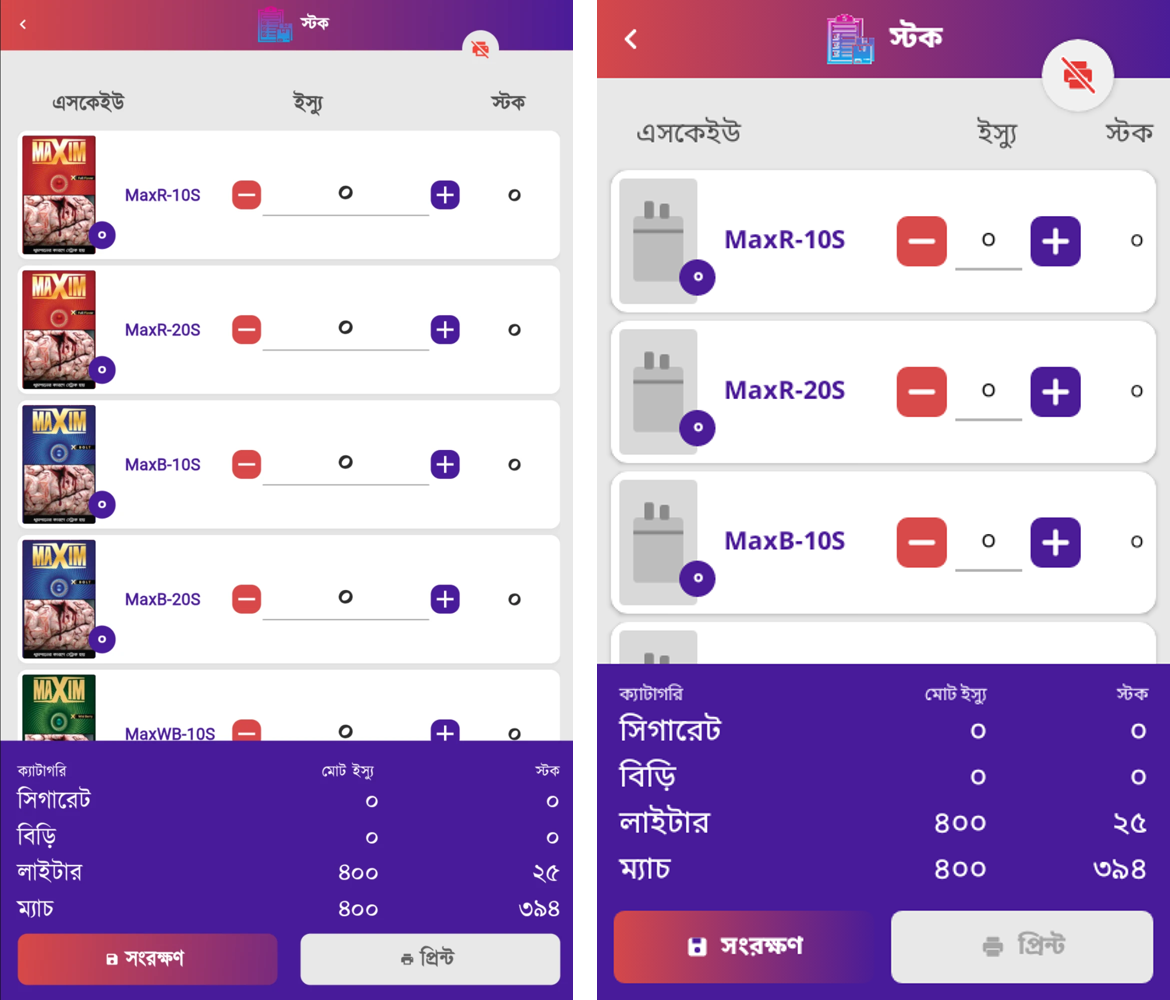
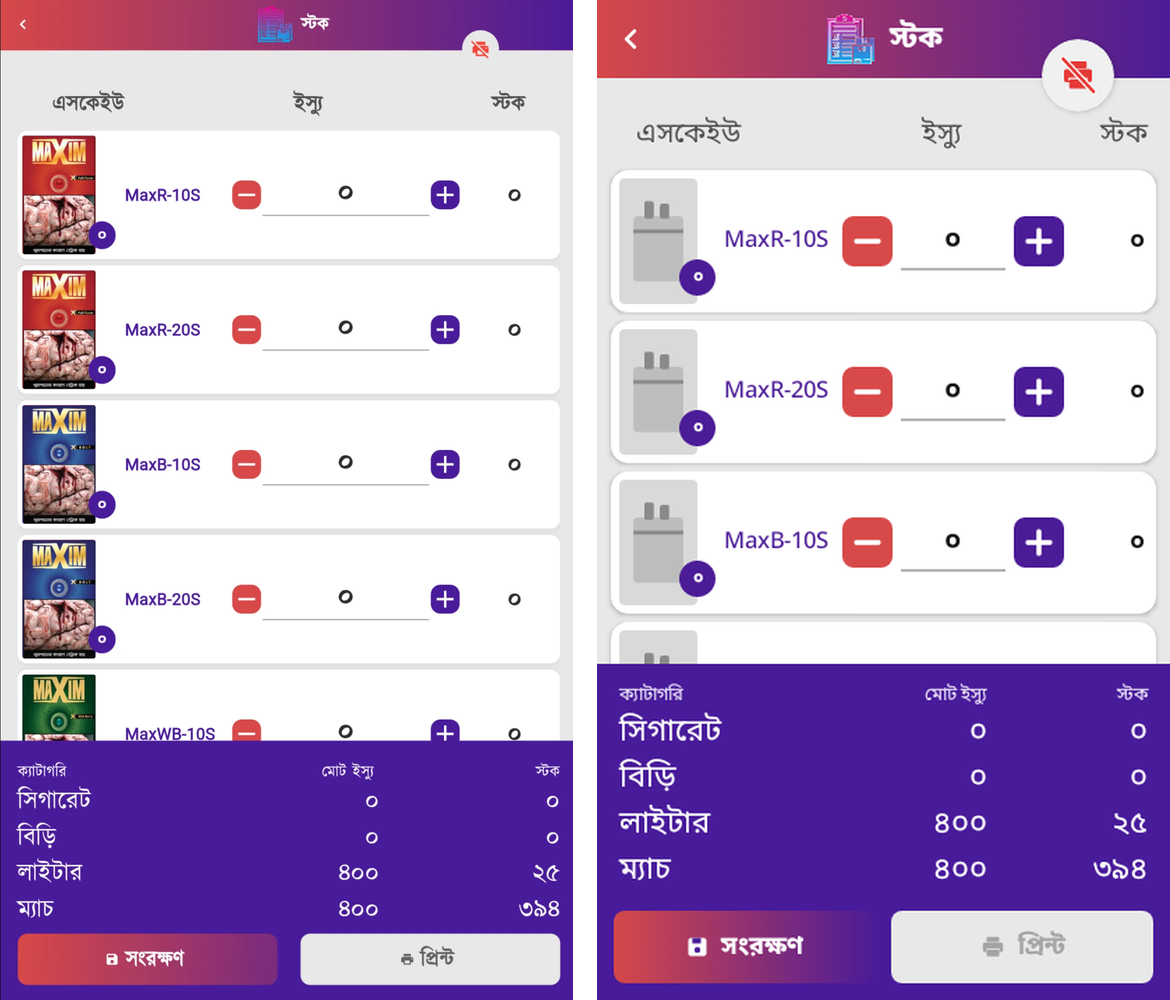
ui-kit: PackCard weights and quantity field as on sr/stock.webp; AMO Home goldens re-recorded for the kit header
Fidelity (measured on stock.webp): the SKU code is Medium (was Bold), the quantity and stock figures are bold,
and the underlined quantity field grows with the row (48 dp at 360 dp, unchanged; up to 96 dp at 411 dp) so it
fills minus-to-plus as on the reference. PackListHeader follows the same width. Names and signatures unchanged.

Run 1216 was red on amo_home_bn_{light,sunlight,fs2}: recorded by ui-amo before the kit Home header went to
15/11 sp (measured on home-1-tiles.webp). Re-recorded with the current kit.

tools/ui-kit/parity_evidence.py rebuilds the side-by-side evidence images.

Claude-Session: https://claude.ai/code/session_012DWzsWtYJkEcYzFUUfg1sn

diff --git a/android/core-ui/src/main/kotlin/com/aktcl/aron/core/ui/aron/Packs.kt b/android/core-ui/src/main/kotlin/com/aktcl/aron/core/ui/aron/Packs.kt
@@ -4,6 +4,7 @@ import androidx.compose.foundation.Canvas
 import androidx.compose.foundation.Image
 import androidx.compose.foundation.background
 import androidx.compose.foundation.layout.Box
+import androidx.compose.foundation.layout.BoxWithConstraints
 import androidx.compose.foundation.layout.Row
 import androidx.compose.foundation.layout.Spacer
 import androidx.compose.foundation.layout.fillMaxWidth
@@ -37,6 +38,7 @@ import androidx.compose.ui.semantics.contentDescription
 import androidx.compose.ui.semantics.semantics
 import androidx.compose.ui.text.input.KeyboardType
 import androidx.compose.ui.text.style.TextAlign
+import androidx.compose.ui.unit.Dp
 import androidx.compose.ui.unit.dp
 import androidx.compose.ui.unit.sp
 import com.aktcl.aron.core.ui.AronLook
@@ -115,7 +117,13 @@ private fun DrawScope.silhouette(category: PackCategory, ink: Color) {
 /** 52 dp: a 5-digit stick count with its separator (`১২,০০০`) and the `স্টক` header fit on one line, shrinking to 12 sp at most. */
 private val StockColumn = 52.dp
 private val QtyField = 48.dp
-private val QtyColumn = AronLook.Touch * 2 + QtyField
+
+/**
+ * The quantity field grows with the row (sr/stock.webp: the underline fills the space between minus and plus): 48 dp at 360 dp, up to
+ * 96 dp on wider phones, leaving an 18 sp SKU code (about 80 dp) its room. [rowWidth] is the full width of the header or the card;
+ * both compute the same, so the header stays over its column.
+ */
+private fun qtyFieldFor(rowWidth: Dp): Dp = (rowWidth - 316.dp).coerceIn(QtyField, 96.dp)
 
 /**
  * The column headers above a pack list (sr/stock.webp: `এসকেইউ` / `ইস্যু` / `স্টক`, grey 20 sp). [quantity] is the issue column on
@@ -124,16 +132,19 @@ private val QtyColumn = AronLook.Touch * 2 + QtyField
 @Composable
 fun PackListHeader(sku: String, quantity: String, stock: String, modifier: Modifier = Modifier) {
     val look = LocalAronLook.current
-    Row(modifier.fillMaxWidth().padding(start = 12.dp, end = 16.dp, top = 12.dp, bottom = 12.dp), verticalAlignment = Alignment.CenterVertically) {
-        FitText(sku, lookStyle(20.sp, color = look.columnHeader), 12.sp, Modifier.weight(1f).padding(start = 16.dp), oneLineDown = 12.sp)
-        FitText(quantity, lookStyle(20.sp, color = look.columnHeader, align = TextAlign.Center), 12.sp, Modifier.width(QtyColumn), oneLineDown = 12.sp)
-        FitText(stock, lookStyle(20.sp, color = look.columnHeader, align = TextAlign.End), 12.sp, Modifier.width(StockColumn), oneLineDown = 12.sp)
+    BoxWithConstraints(modifier.fillMaxWidth()) {
+        val qtyColumn = AronLook.Touch * 2 + qtyFieldFor(maxWidth)
+        Row(Modifier.fillMaxWidth().padding(start = 12.dp, end = 16.dp, top = 12.dp, bottom = 12.dp), verticalAlignment = Alignment.CenterVertically) {
+            FitText(sku, lookStyle(20.sp, color = look.columnHeader), 12.sp, Modifier.weight(1f).padding(start = 16.dp), oneLineDown = 12.sp)
+            FitText(quantity, lookStyle(20.sp, color = look.columnHeader, align = TextAlign.Center), 12.sp, Modifier.width(qtyColumn), oneLineDown = 12.sp)
+            FitText(stock, lookStyle(20.sp, color = look.columnHeader, align = TextAlign.End), 12.sp, Modifier.width(StockColumn), oneLineDown = 12.sp)
+        }
     }
 }
 
 /**
  * One pack row of Stock, Sale and the review (PARITY-SPEC s2.5, sr/stock.webp): a white 12 dp card with the [PackshotImage] at the
- * start and the purple round [packBadge] overlapping its bottom end, the [skuCode] in purple 18 sp bold, the red [AronMinus], the
+ * start and the purple round [packBadge] overlapping its bottom end, the [skuCode] in purple 18 sp medium (the reference weight), the red [AronMinus], the
  * underlined [quantity] field (tap to type; [onQuantityChange] gets digits only, Bangla digits included, at most 6), the purple
  * [AronPlus], and the [stock] figure at the end. Strings come resolved and localised (digits too) from the caller.
  */
@@ -159,57 +170,60 @@ fun PackCard(
 ) {
     val look = LocalAronLook.current
     val shape = RoundedCornerShape(AronLook.CardRadius)
-    Row(
-        modifier
-            .fillMaxWidth()
-            .shadow(2.dp, shape)
-            .clip(shape)
-            .background(look.card)
-            .padding(start = 6.dp, top = 6.dp, bottom = 6.dp, end = 8.dp),
-        verticalAlignment = Alignment.CenterVertically,
-    ) {
-        Box(Modifier.padding(end = AronLook.PackBadge / 2)) {
-            PackshotImage(skuId, Modifier.size(AronLook.PackshotWidth, AronLook.PackshotHeight), packshotDescription, category)
-            if (packBadge != null) {
-                Box(
-                    Modifier
-                        .align(Alignment.BottomEnd)
-                        .offset(x = AronLook.PackBadge / 2, y = (-6).dp)
-                        .sizeIn(minWidth = AronLook.PackBadge, minHeight = AronLook.PackBadge)
-                        .clip(CircleShape)
-                        .background(look.purple),
-                    contentAlignment = Alignment.Center,
-                ) { Text(packBadge, style = lookStyle(12.sp, bold = true, color = Color.White), modifier = Modifier.padding(horizontal = 4.dp)) }
+    BoxWithConstraints(modifier.fillMaxWidth()) {
+        val qtyField = qtyFieldFor(maxWidth)
+        Row(
+            Modifier
+                .fillMaxWidth()
+                .shadow(2.dp, shape)
+                .clip(shape)
+                .background(look.card)
+                .padding(start = 6.dp, top = 6.dp, bottom = 6.dp, end = 8.dp),
+            verticalAlignment = Alignment.CenterVertically,
+        ) {
+            Box(Modifier.padding(end = AronLook.PackBadge / 2)) {
+                PackshotImage(skuId, Modifier.size(AronLook.PackshotWidth, AronLook.PackshotHeight), packshotDescription, category)
+                if (packBadge != null) {
+                    Box(
+                        Modifier
+                            .align(Alignment.BottomEnd)
+                            .offset(x = AronLook.PackBadge / 2, y = (-6).dp)
+                            .sizeIn(minWidth = AronLook.PackBadge, minHeight = AronLook.PackBadge)
+                            .clip(CircleShape)
+                            .background(look.purple),
+                        contentAlignment = Alignment.Center,
+                    ) { Text(packBadge, style = lookStyle(12.sp, bold = true, color = Color.White), modifier = Modifier.padding(horizontal = 4.dp)) }
+                }
             }
+            Spacer(Modifier.width(6.dp))
+            // one line, shrinking from 18 sp down to 14 sp (sr/stock.webp shows the code on one line); a longer name such as "Prime Gold
+            // 10S" then wraps between words, each word shrinking to at most 12 sp: no code is ever cut
+            FitText(skuCode, lookStyle(18.sp, medium = true, color = look.purple), 12.sp, Modifier.weight(1f), oneLineDown = 14.sp)
+            AronMinus(onMinus, minusLabel, enabled = minusEnabled)
+            BasicTextField(
+                value = quantity,
+                onValueChange = { typed -> onQuantityChange(typed.filter(Char::isDigit).take(6)) },
+                enabled = editable,
+                singleLine = true,
+                textStyle = lookStyle(20.sp, bold = true, color = look.ink, align = TextAlign.Center),
+                cursorBrush = SolidColor(look.purple),
+                keyboardOptions = KeyboardOptions(keyboardType = KeyboardType.Number),
+                modifier = Modifier
+                    .width(qtyField)
+                    .heightIn(min = AronLook.Touch)
+                    .semantics { contentDescription = quantityLabel },
+                decorationBox = { inner ->
+                    Box(
+                        Modifier.fillMaxWidth().heightIn(min = AronLook.Touch).drawBehind {
+                            val y = size.height - 4.dp.toPx()
+                            drawLine(look.underline, Offset(0f, y), Offset(size.width, y), 1.5.dp.toPx())
+                        },
+                        contentAlignment = Alignment.Center,
+                    ) { inner() }
+                },
+            )
+            AronPlus(onPlus, plusLabel, enabled = plusEnabled)
+            FitText(stock, lookStyle(18.sp, bold = true, color = look.ink, align = TextAlign.End), 12.sp, Modifier.width(StockColumn), oneLineDown = 12.sp)
         }
-        Spacer(Modifier.width(6.dp))
-        // one line, shrinking from 18 sp down to 14 sp (sr/stock.webp shows the code on one line); a longer name such as "Prime Gold
-        // 10S" then wraps between words, each word shrinking to at most 12 sp: no code is ever cut
-        FitText(skuCode, lookStyle(18.sp, bold = true, color = look.purple), 12.sp, Modifier.weight(1f), oneLineDown = 14.sp)
-        AronMinus(onMinus, minusLabel, enabled = minusEnabled)
-        BasicTextField(
-            value = quantity,
-            onValueChange = { typed -> onQuantityChange(typed.filter(Char::isDigit).take(6)) },
-            enabled = editable,
-            singleLine = true,
-            textStyle = lookStyle(20.sp, color = look.ink, align = TextAlign.Center),
-            cursorBrush = SolidColor(look.purple),
-            keyboardOptions = KeyboardOptions(keyboardType = KeyboardType.Number),
-            modifier = Modifier
-                .width(QtyField)
-                .heightIn(min = AronLook.Touch)
-                .semantics { contentDescription = quantityLabel },
-            decorationBox = { inner ->
-                Box(
-                    Modifier.fillMaxWidth().heightIn(min = AronLook.Touch).drawBehind {
-                        val y = size.height - 4.dp.toPx()
-                        drawLine(look.underline, Offset(0f, y), Offset(size.width, y), 1.5.dp.toPx())
-                    },
-                    contentAlignment = Alignment.Center,
-                ) { inner() }
-            },
-        )
-        AronPlus(onPlus, plusLabel, enabled = plusEnabled)
-        FitText(stock, lookStyle(18.sp, color = look.ink, align = TextAlign.End), 12.sp, Modifier.width(StockColumn), oneLineDown = 12.sp)
     }
 }

diff --git a/tools/ui-kit/parity_evidence.py b/tools/ui-kit/parity_evidence.py
@@ -1,0 +1,40 @@
+#!/usr/bin/env python3
+"""Side-by-side parity evidence: the owner's screenshot (left) and the kit mock-up (right), both scaled to 1000 px high, 24 px white gap.
+
+Run after `./gradlew :android:ui-screenshots:testDebugUnitTest --tests '*KitParityShot*'`; writes docs/evidence/ui-parity/kit-<name>.png.
+"""
+import pathlib
+import sys
+
+from PIL import Image
+
+ROOT = pathlib.Path(__file__).resolve().parents[2]
+PAIRS = {
+    "home": "home-1-tiles.webp",
+    "stock": "stock.webp",
+    "sale-select": "sale-select.png",
+    "summary": "summary.png",
+    "sales-submit": "sales-submit.png",
+    "outlet-menu": "outlet-menu.png",
+}
+H, GAP = 1000, 24
+
+
+def scaled(path: pathlib.Path) -> Image.Image:
+    im = Image.open(path).convert("RGB")
+    return im.resize((round(im.width * H / im.height), H), Image.LANCZOS)
+
+
+def main(names: list[str]) -> None:
+    for name in names or PAIRS:
+        ref = scaled(ROOT / "docs/ui-reference/sr" / PAIRS[name])
+        kit = scaled(ROOT / "android/ui-screenshots/build/kitshots" / f"parity_{name.replace('-', '_')}.png")
+        out = Image.new("RGB", (ref.width + GAP + kit.width, H), "white")
+        out.paste(ref, (0, 0))
+        out.paste(kit, (ref.width + GAP, 0))
+        out.save(ROOT / "docs/evidence/ui-parity" / f"kit-{name}.png", optimize=True)
+        print(f"kit-{name}.png", out.size)
+
+
+if __name__ == "__main__":
+    main(sys.argv[1:])

diff --git a/docs/status/ui-parity-ui-kit.md b/docs/status/ui-parity-ui-kit.md
@@ -1,6 +1,13 @@
 # UI parity: lane ui-kit (android/core-ui)
 
-## HANDOVER (2026-10-18 23:20 UTC, READY TO RECYCLE)
+## SESSION 2 (2026-10-18 23:50 UTC, session_012DWzsWtYJkEcYzFUUfg1sn, Opus)
+- **Up.** Session 1's last push 9c4b2a83 (run 1216) was red: the three AMO Home goldens from INT (ui-amo d8e41a41) were recorded before the kit's Home header went to 15/11 sp. Re-recorded here (`amo_home_bn_{light,sunlight,fs2}.png`); ui-amo told.
+- **Container:** the SDK is not baked in; install it with `sdkmanager --sdk_root=/opt/android-sdk "platforms;android-37.0" "build-tools;37.0.0" "platform-tools"` (cmdline-tools zip from dl.google.com), `local.properties` sdk.dir=/opt/android-sdk.
+- **Evidence:** `python3 tools/ui-kit/parity_evidence.py [stock ...]` rebuilds docs/evidence/ui-parity/kit-*.png from the KitParityShot captures (reference left, kit right, 1000 px high).
+- **Scale note (fidelity):** measured on sr/stock.webp scaled to 411 units, the reference's elements are about 0.6 to 0.75 of the PARITY-SPEC dp values (minus 21 units vs 36 dp, top bar 36 vs 56): the reference phone runs a smaller display size. The kit keeps the spec's dp sizes (48 dp targets, legible Bangla on 360 dp phones) and matches proportions, weights and layout within them.
+- **Fidelity log:** PackCard: SKU code medium weight (reference stroke/cap 0.12 = Medium, was Bold), quantity and stock figures bold, quantity field grows from 48 dp (360 dp phones, unchanged) to 96 dp at 411 dp so the underline fills minus-to-plus as on the reference; PackListHeader follows.
+
+## HANDOVER from session 1 (2026-10-18 23:20 UTC)
 - **State:** branch `lane/ui-kit`; candidate run 1211 on abac6ba46385 (pushed 23:13). Lead rule: never push while a run of this branch is running or queued (a push cancels it); push at most once per CI cycle; after a green run send the lead `ready <full sha>` with the parity PNG list (docs/evidence/ui-parity/kit-*.png). Every earlier run was cancelled except 69e77e2 (red: money-float scan, fixed) and 8bb3d86 (Android, lint, size gate green before cancel).
 - **Local build works:** Android SDK at /opt/android-sdk (cmdline-tools; `platforms;android-37.0`, `build-tools;37.0.0`), `local.properties` sdk.dir (git-ignored). Fast loop: `./gradlew :android:core-ui:testDebugUnitTest :android:ui-screenshots:testDebugUnitTest` (~50 s), then `python3 tools/ci/test_money_gates.py` (the money-float scan reads any `Float` near "total"/"amount" words in core-ui as money: use TextUnit/Int). Captures: `android/ui-screenshots/build/kitshots/{look_*,parity_*,icons_sheet}.png`.
 - **Kit:** package `com.aktcl.aron.core.ui.aron` (Chrome.kt, Tiles.kt, Packs.kt, Tables.kt, Forms.kt, Glyphs.kt, AronLookGallery.kt); tokens `AronLook`/`AronLookColors`/`LocalAronLook` in Tokens.kt (provided by AronTheme). API list at the top of docs/status/android-core-ui.md. Old Calm Glass kit untouched (other lanes' goldens depend on it until they migrate).
@@ -19,7 +26,7 @@ What still differs (kit level): packshots show the grey silhouette until ui-pack
 | AronScaffold | stock.webp | DONE | kit skeleton |
 | AronHomeHeader | home-1-tiles.webp | DONE (drawn gear and avatar) | kit skeleton |
 | AronTile + AronTileGrid | home-1-tiles.webp, outlet-menu.png | DONE (menu tiles 72 dp icon, red labels) | icons push |
-| PackCard + PackListHeader | stock.webp | DONE; packshot 56 x 90 dp (measured 51 x 83 on the screenshot; spec text says about 68 x 120, screenshot wins) | kit skeleton |
+| PackCard + PackListHeader | stock.webp | DONE; SKU medium, figures bold, quantity field 48 to 96 dp with the row (session 2); packshot 56 x 90 dp (measured 51 x 83 on the screenshot; spec text says about 68 x 120, screenshot wins) | kit skeleton |
 | PackshotImage + PackshotProvider | stock.webp | DONE (silhouette fallback per category); real images: ui-packshots lane | kit skeleton |
 | TotalsPanel | stock.webp | DONE | kit skeleton |
 | AronPrimaryButton / AronSecondaryButton / AronPlus / AronMinus | stock.webp, summary.png | DONE | kit skeleton |

diff --git a/docs/status/android-core-ui.md b/docs/status/android-core-ui.md
@@ -21,6 +21,7 @@ PackListHeader(sku = "এসকেইউ", quantity = "ইস্যু", stock =
 PackCard(skuId, skuCode, quantity: String, onQuantityChange: (String) -> Unit /* digits only, max 6 */, onMinus, onPlus, stock: String,
          minusLabel, plusLabel, quantityLabel, packBadge: String? = null, packshotDescription: String? = null,
          category = PackCategory.Cigarette /* Bidi, Lighter, Match */, minusEnabled = true, plusEnabled = true, editable = true)
+// SKU code purple 18 sp medium; quantity and stock bold; the quantity field is 48 dp at 360 dp and grows to 96 dp on wider rows (header follows)
 PackshotImage(skuId, modifier, contentDescription = null, category)       // provider thumbnail or the grey pack silhouette; never a letter or spinner
 interface PackshotProvider { @Composable fun painter(skuId: String): Painter? }   // ui-packshots implements over ImageCache
 CompositionLocalProvider(LocalPackshotProvider provides yourProvider) { ... }    // default NoPackshots
